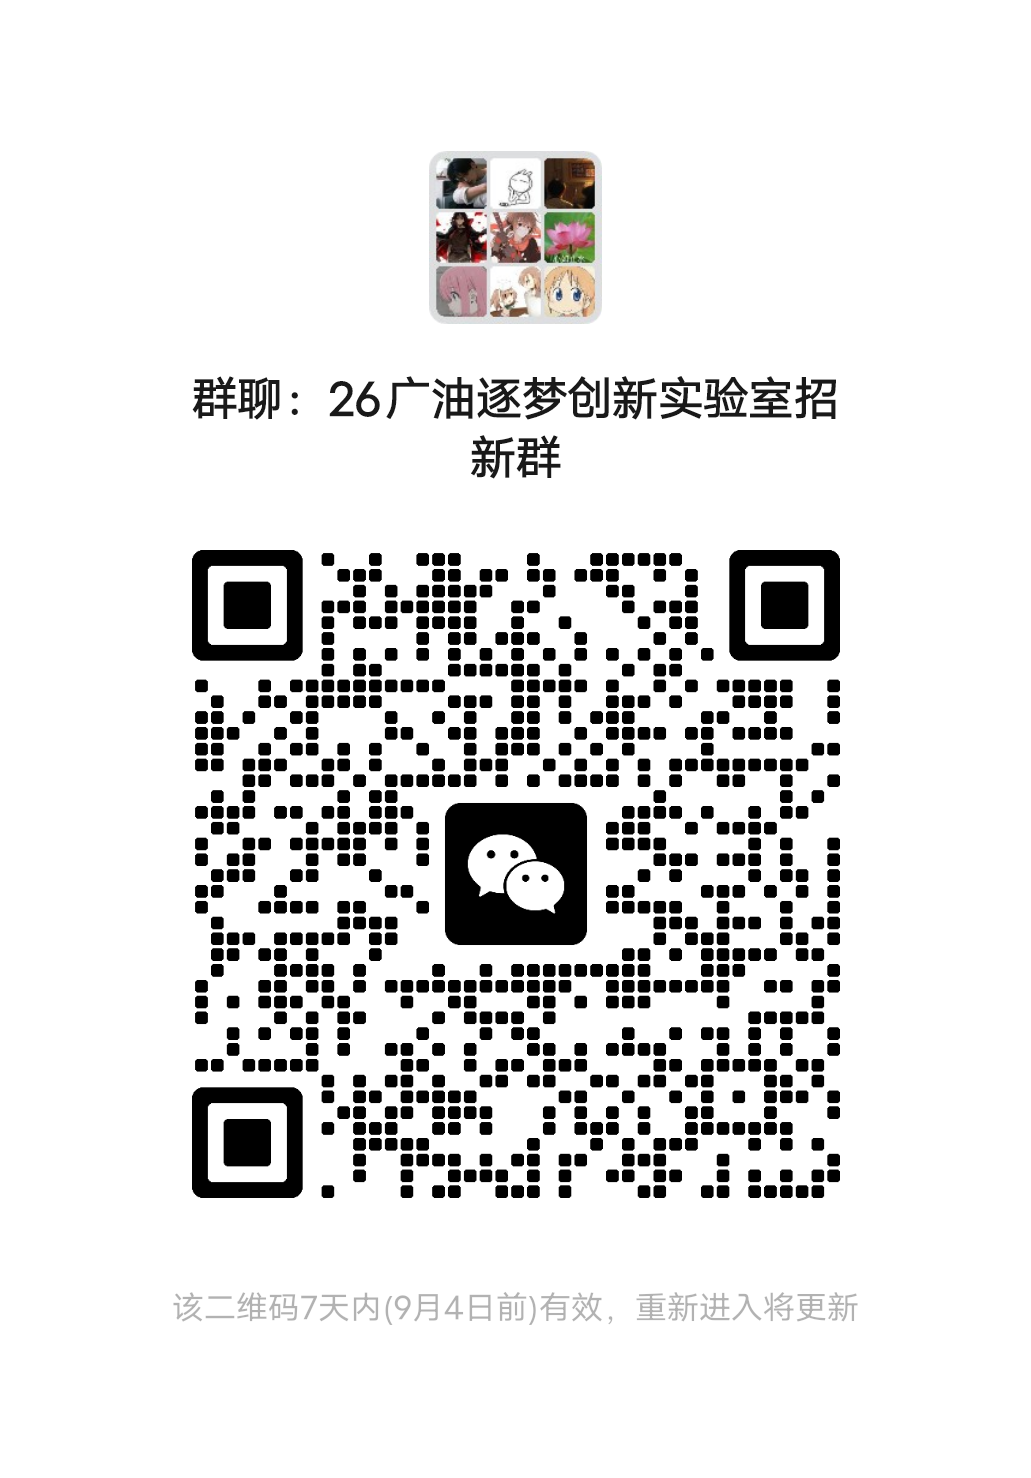
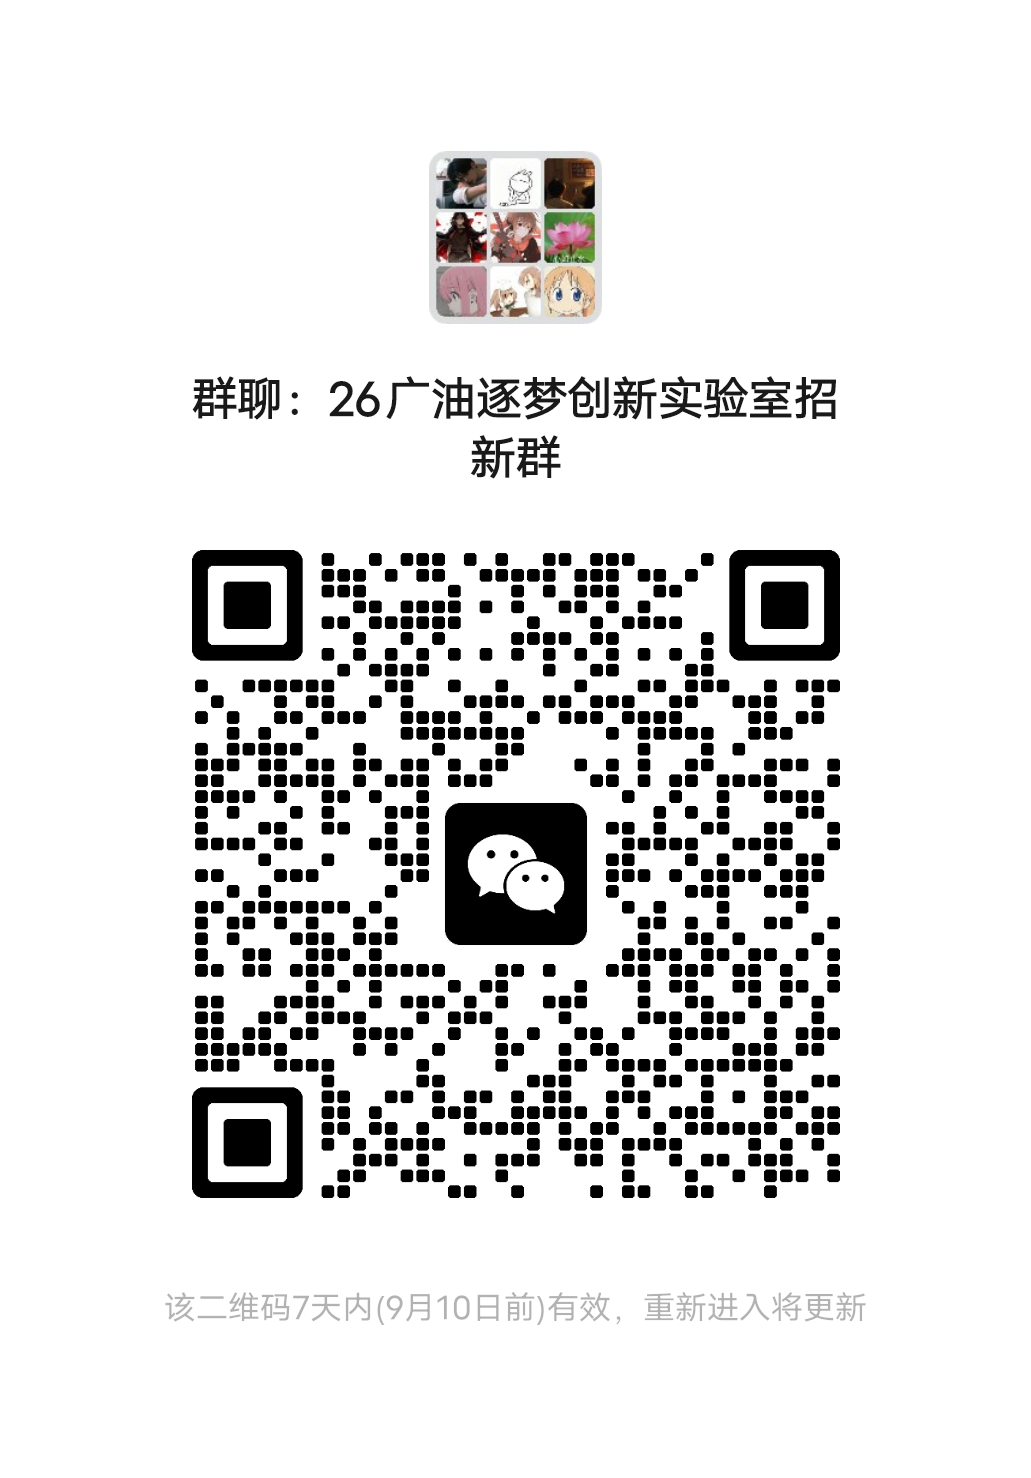
fix(apply): update recruitment QR code and validity date to Sep 10

diff --git a/src/components/ApplySection.vue b/src/components/ApplySection.vue
@@ -43,7 +43,7 @@ import { applyAssets } from "../data/content";
         <figcaption>
           <strong>扫码加入招新咨询群</strong>
           <span>26广油逐梦创新实验室招新群</span>
-          <small>二维码 7 天内有效，9 月 4 日前可扫码加入。</small>
+          <small>二维码 7 天内有效，9 月 10 日前可扫码加入。</small>
         </figcaption>
       </figure>
       <div :class="$style['actions']">
